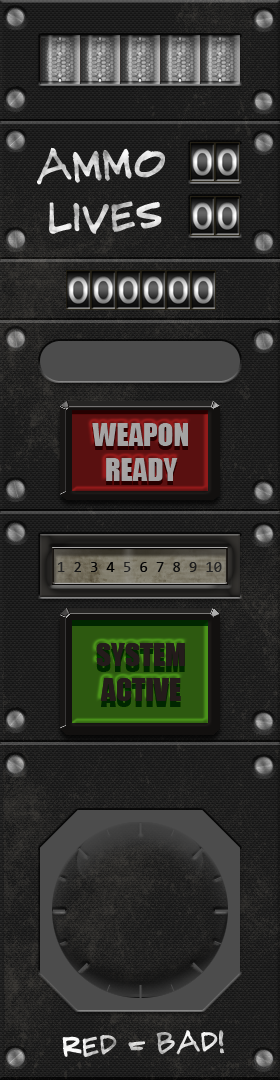
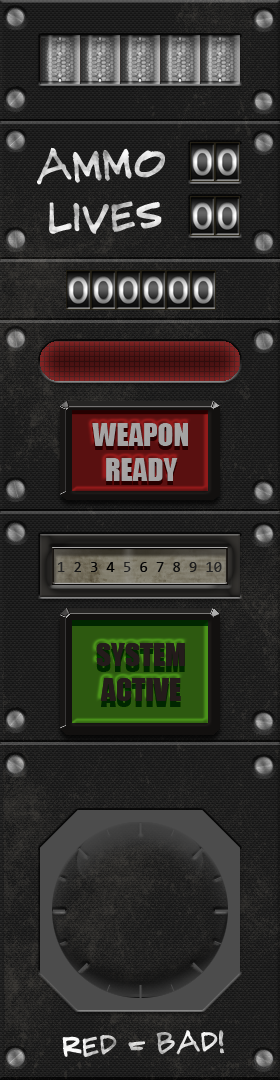
update weapon charge UI widget

Changed region(s): [[0.1429, 0.3056, 0.8571, 0.3667]]

diff --git a/LunarMooner/src/LMCoolDownMeter.cpp b/LunarMooner/src/LMCoolDownMeter.cpp
@@ -29,6 +29,7 @@ source distribution.
 #include <CommandIds.hpp>
 
 #include <xygine/Assert.hpp>
+#include <xygine/util/Random.hpp>
 
 #include <SFML/Graphics/RenderStates.hpp>
 #include <SFML/Graphics/RenderTarget.hpp>
@@ -39,13 +40,16 @@ using namespace lm;
 namespace
 {
     const float frameCount = 6.f;
+    const float frameRate = 1.f / 12.f;
 }
 
 CooldownMeter::CooldownMeter(xy::MessageBus& mb, const sf::Texture& t)
     : xy::Component (mb, this),
     m_texture       (t),
     m_size          (t.getSize()),
-    m_level         (0.f)
+    m_level         (0.f),
+    m_frameTime     (0.f),
+    m_currentFrame  (xy::Util::Random::value(0, static_cast<int>(frameCount - 1)))
 {
     m_size.y /= frameCount;
 
@@ -59,7 +63,20 @@ CooldownMeter::CooldownMeter(xy::MessageBus& mb, const sf::Texture& t)
 //public
 void CooldownMeter::entityUpdate(xy::Entity&, float dt)
 {
+    m_frameTime += dt;
+    if(m_frameTime > frameRate)
+    {
+        m_frameTime = 0.f;
+        m_currentFrame = (m_currentFrame + 1) % static_cast<int>(frameCount);
 
+        const float offset = m_currentFrame * m_size.y;
+        m_vertices[0].texCoords.y = offset;
+        m_vertices[1].texCoords.y = offset;
+        m_vertices[2].texCoords.y = offset + m_size.y;
+        m_vertices[3].texCoords.y = offset + m_size.y;
+    }
+
+    //update button alpha
 }
 
 void CooldownMeter::setValue(float value)
@@ -70,11 +87,6 @@ void CooldownMeter::setValue(float value)
     if (level != m_level)
     {
         //update frame
-        const float offset = level * m_size.y;
-        m_vertices[0].texCoords.y = offset;
-        m_vertices[1].texCoords.y = offset;
-        m_vertices[2].texCoords.y = offset + m_size.y;
-        m_vertices[3].texCoords.y = offset + m_size.y;
 
         m_level = level;
 

diff --git a/LunarMooner/src/LMGameController.cpp b/LunarMooner/src/LMGameController.cpp
@@ -1077,11 +1077,14 @@ void GameController::createUI()
     entity->setPosition(padding, cooldownHeight);
     m_scene.addEntity(entity, xy::Scene::Layer::UI);
 
-    cooldownMeter = xy::Component::create<CooldownMeter>(getMessageBus(), m_resources.textureResource.get("assets/images/game/console/weapon_charge.png"));
-    entity = xy::Entity::create(getMessageBus());
-    m_uiComponents[1].cooldownMeter = entity->addComponent(cooldownMeter);
-    entity->setPosition(alienArea.left + alienArea.width + padding, cooldownHeight);
-    m_scene.addEntity(entity, xy::Scene::Layer::UI);
+    if (m_playerStates.size() > 1)
+    {
+        cooldownMeter = xy::Component::create<CooldownMeter>(getMessageBus(), m_resources.textureResource.get("assets/images/game/console/weapon_charge.png"));
+        entity = xy::Entity::create(getMessageBus());
+        m_uiComponents[1].cooldownMeter = entity->addComponent(cooldownMeter);
+        entity->setPosition(alienArea.left + alienArea.width + padding, cooldownHeight);
+        m_scene.addEntity(entity, xy::Scene::Layer::UI);
+    }
 
     //score / lives display etc
     auto scores = xy::Component::create<ScoreDisplay>(getMessageBus(), m_resources, m_playerStates);

diff --git a/LunarMooner/include/LMCoolDownMeter.hpp b/LunarMooner/include/LMCoolDownMeter.hpp
@@ -58,6 +58,9 @@ namespace lm
         sf::Vector2f m_size;
         float m_level;
 
+        float m_frameTime;
+        std::size_t m_currentFrame;
+
         std::array<sf::Vertex, 4u> m_vertices;
         void draw(sf::RenderTarget&, sf::RenderStates) const override;
     };

diff --git a/readme.md b/readme.md
@@ -14,7 +14,16 @@ need to have SFML installed (building the latest revision is recommended)
 and [xygine](https://github.com/fallahn/xygine/wiki/Building).
 
 OS X:  
-TODO.
+The CMake file is ocasionally tested on OS X and has been proven to work
+but as testing is intermittent due to lack of access to hardware breaking
+changes may unfortunately be sometime incurred.
+
+######Contributions
+Contributions should be acknowledged and are gratefully accepted from:  
+Jonny Paton  
+Jean-Sebastien Fauteux (OS X Testing)  
+
+
 
 /*********************************************************************  
 Matt Marchant 2016  
